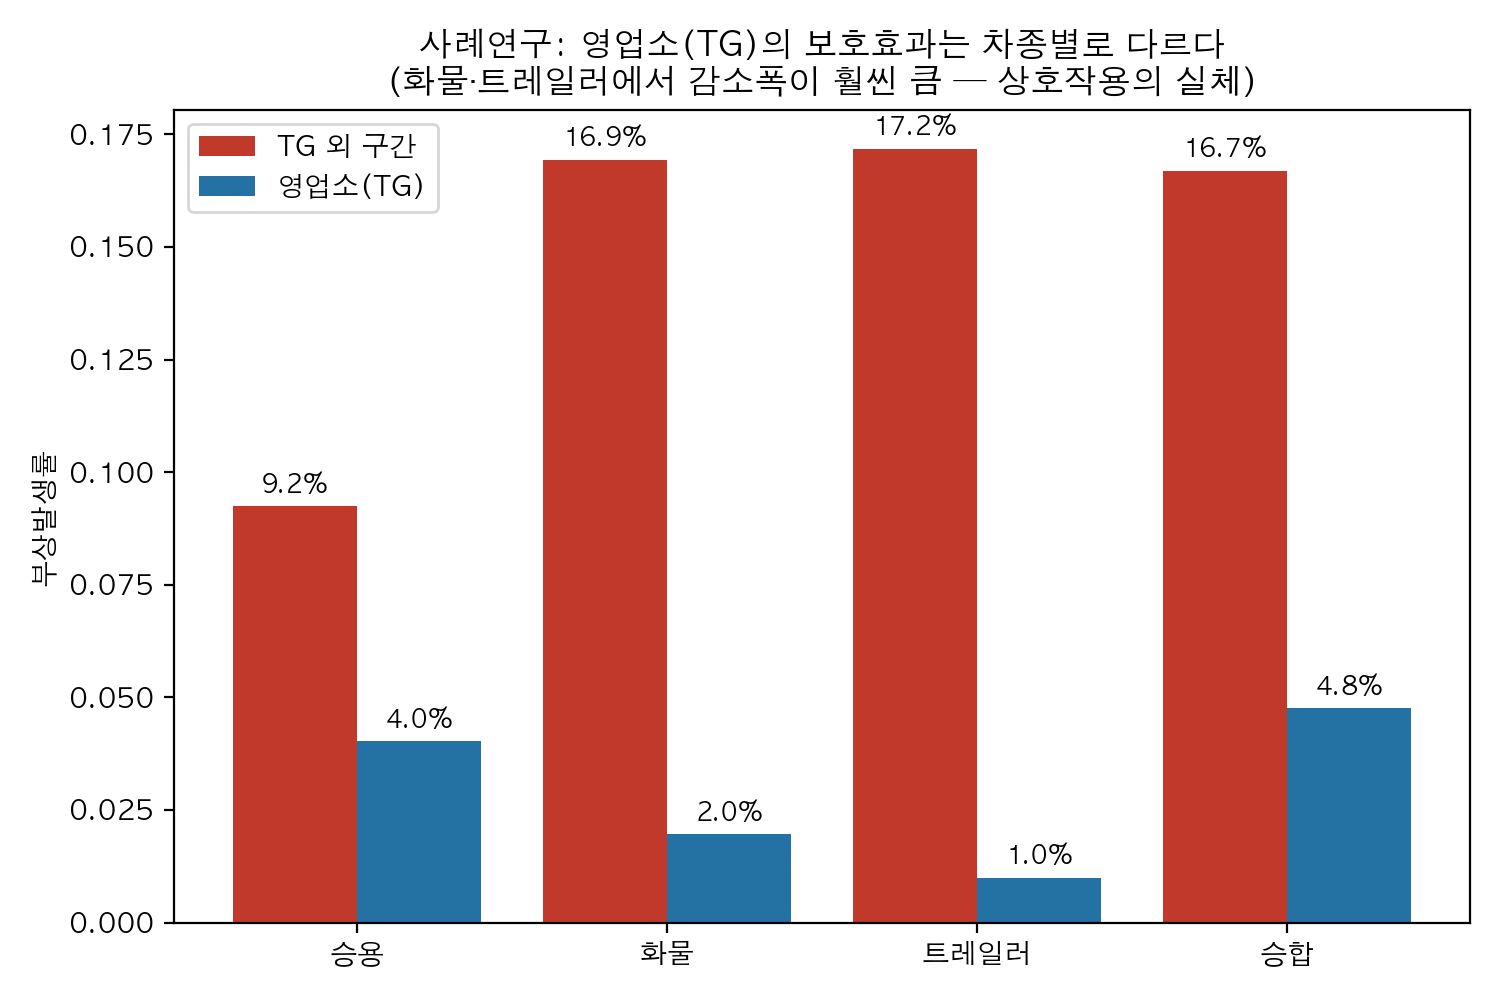
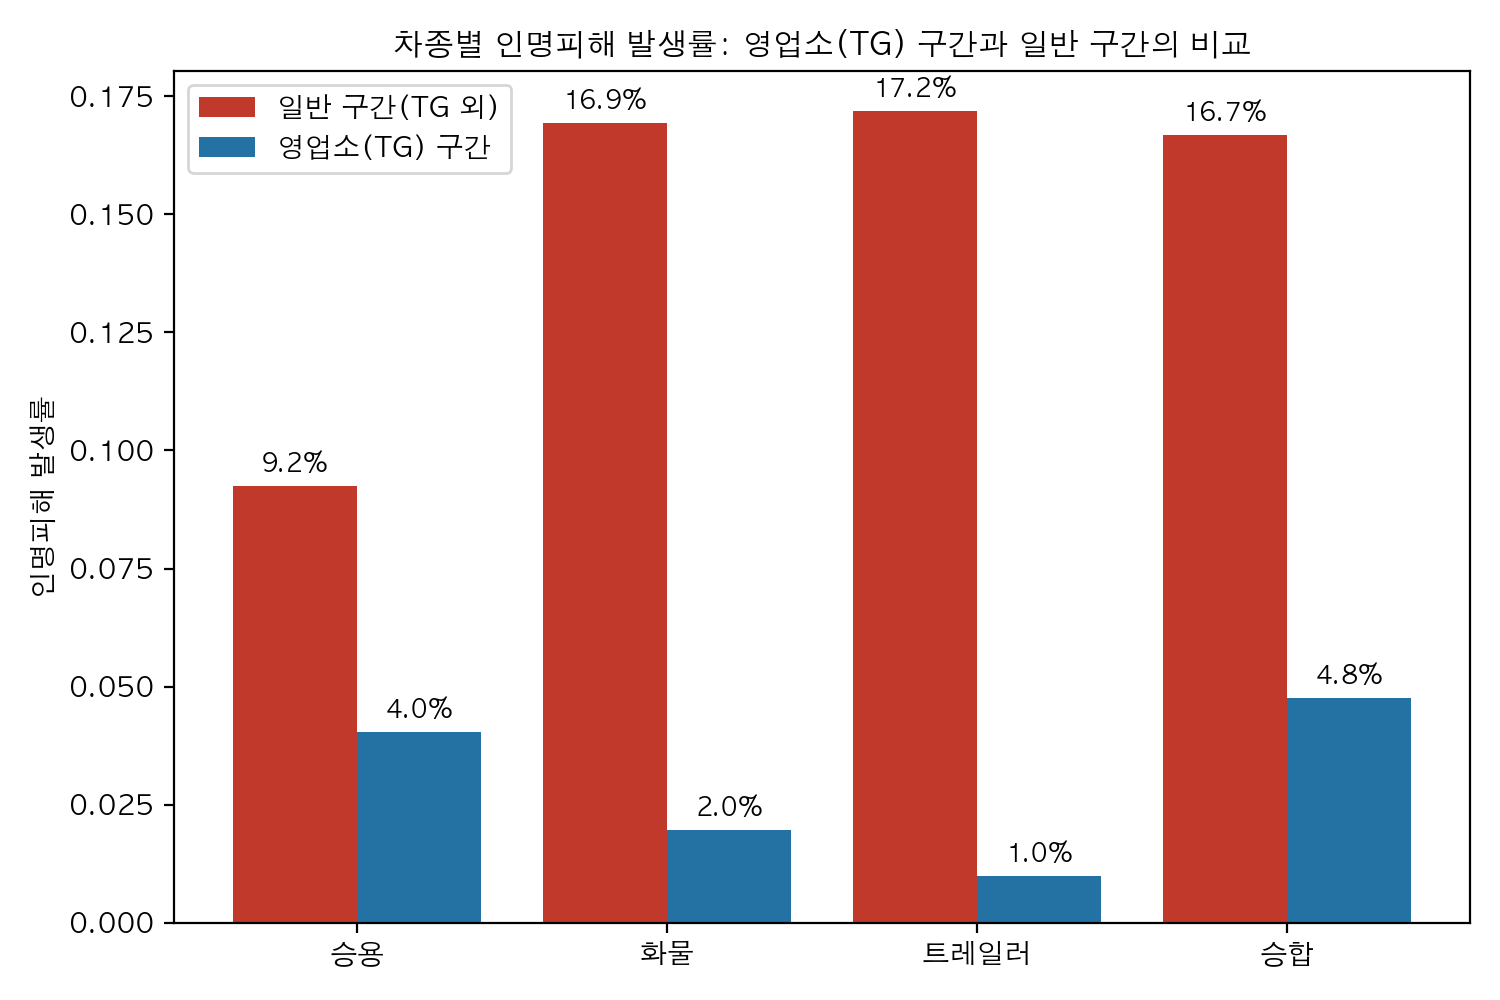
fig11 논문용 재생성(용어 통일·중립 제목) + TG 차종별 오즈 감소 수치 정밀화(59/75/90/95%)

diff --git a/docs/paper/build_docx.js b/docs/paper/build_docx.js
@@ -204,7 +204,7 @@ children.push(img("fig09_or_forest.png", 460, 433));
 children.push(caption("그림 3. 다변량 로지스틱 오즈비 forest plot (유의 상위 20)"));
 
 children.push(h2("5.3 상호작용: 탐색과 확인"));
-children.push(p("SHAP 상호작용 후보 24쌍 중 FDR q<0.05에서 확인된 주요 쌍은 표 4와 같다. 영업소(TG)×승용(+1.36)은 TG 보호효과가 승용차에서 유의하게 약화됨을 의미하며, 실증적으로 TG 진입 시 인명피해 오즈 감소는 승용 58%, 화물 90%, 트레일러 94%로 차종 간 이질성이 컸다(그림 4). 주시태만×본선(+0.44)은 본선 고속 구간에서 주시태만의 위험 증폭을, 승합×대형(+0.96)은 대형 승합 사고의 인명피해율(28.3%, 전체 평균의 2.6배)을 반영한다. 반면 SHAP 강도 상위였던 졸음×승용(p=0.304)과 본선×승용(p=0.167)은 주효과 통제 후 유의하지 않아, SHAP 상호작용 순위의 단독 보고가 갖는 허위 발견 위험을 자료로 확인하였다."));
+children.push(p("SHAP 상호작용 후보 24쌍 중 FDR q<0.05에서 확인된 주요 쌍은 표 4와 같다. 영업소(TG)×승용(+1.36)은 TG 보호효과가 승용차에서 유의하게 약화됨을 의미하며, 실증적으로 TG 진입 시 인명피해 오즈 감소는 승용 59%, 승합 75%, 화물 90%, 트레일러 95%로 차종 간 이질성이 컸다(그림 4). 주시태만×본선(+0.44)은 본선 고속 구간에서 주시태만의 위험 증폭을, 승합×대형(+0.96)은 대형 승합 사고의 인명피해율(28.3%, 전체 평균의 2.6배)을 반영한다. 반면 SHAP 강도 상위였던 졸음×승용(p=0.304)과 본선×승용(p=0.167)은 주효과 통제 후 유의하지 않아, SHAP 상호작용 순위의 단독 보고가 갖는 허위 발견 위험을 자료로 확인하였다."));
 children.push(mkTable(
   ["상호작용 쌍", "계수(log-odds)", "FDR q", "해석"],
   [

diff --git a/src/05_interaction_deep.py b/src/05_interaction_deep.py
@@ -219,16 +219,18 @@ def main():
     r_no = [df.loc[~tg & (df["원인차차종"] == v), "injury"].mean() for v in vehs]
     xp = np.arange(len(vehs))
     fig, ax = plt.subplots(figsize=(7.5, 5))
-    b1 = ax.bar(xp - 0.2, r_no, width=0.4, label="TG 외 구간", color="#C0392B")
-    b2 = ax.bar(xp + 0.2, r_tg, width=0.4, label="영업소(TG)", color="#2471A3")
+    b1 = ax.bar(xp - 0.2, r_no, width=0.4, label="일반 구간(TG 외)",
+                color="#C0392B")
+    b2 = ax.bar(xp + 0.2, r_tg, width=0.4, label="영업소(TG) 구간",
+                color="#2471A3")
     for b in list(b1) + list(b2):
         ax.text(b.get_x() + b.get_width() / 2, b.get_height() + 0.003,
                 f"{b.get_height():.1%}", ha="center", fontsize=9)
     ax.set_xticks(xp)
     ax.set_xticklabels(vehs)
-    ax.set_ylabel("부상발생률")
-    ax.set_title("사례연구: 영업소(TG)의 보호효과는 차종별로 다르다\n"
-                 "(화물·트레일러에서 감소폭이 훨씬 큼 — 상호작용의 실체)")
+    ax.set_ylabel("인명피해 발생률")
+    ax.set_title("차종별 인명피해 발생률: 영업소(TG) 구간과 일반 구간의 비교",
+                 fontsize=11)
     ax.legend()
     fig.tight_layout()
     fig.savefig(os.path.join(OUT_FIG, "fig11_tg_vehicle_casestudy.png"),

diff --git a/docs/analysis_report.md b/docs/analysis_report.md
@@ -225,11 +225,12 @@ OR(기준범주 대비)의 비교 기준 차이에서 발생하는 약한 효과
 
 ### 7-3. 사례연구: TG 보호효과의 차종별 이질성 (`fig11_tg_vehicle_casestudy.png`)
 
-| 차종 | TG 외 부상률 | TG 부상률 | 감소폭 |
+| 차종 | TG 외 인명피해율 | TG 인명피해율 | 감소폭 |
 |---|---|---|---|
-| 승용 | 9.2% | 4.0% | 오즈 58% ↓ |
+| 승용 | 9.2% | 4.0% | 오즈 59% ↓ |
+| 승합 | 16.7% | 4.8% | 오즈 75% ↓ |
 | 화물 | 16.9% | 2.0% | 오즈 90% ↓ |
-| 트레일러 | 17.2% | 1.0% | 오즈 94% ↓ |
+| 트레일러 | 17.2% | 1.0% | 오즈 95% ↓ |
 
 SHAP 랭킹 A에서 'TG × 승용'이 1위인 것은 승용의 등장 빈도 때문이며, **보호효과
 자체는 화물·트레일러에서 훨씬 강하다**. 상호작용 계수 +1.36은 "승용은 TG의

diff --git a/docs/paper/01_evidence_base.md b/docs/paper/01_evidence_base.md
@@ -107,8 +107,9 @@ FDR q<0.05 (조정 로지스틱 상호작용항, 주효과 14개 통제):
 검정 미통과(보고 시 탐색적으로 강등): 졸음×승용 p=0.304, 본선×승용 p=0.167,
 도로환경정상×습기 p=0.098
 
-TG 보호효과 이질성(실증): 승용 9.2%→4.0%(오즈 58%↓), 화물 16.9%→2.0%(90%↓),
-트레일러 17.2%→1.0%(94%↓)
+TG 보호효과 이질성(실증, 원자료 오즈비 기준): 승용 9.2%→4.0%(오즈 59%↓, OR 0.412),
+승합 16.7%→4.8%(75%↓, OR 0.249), 화물 16.9%→2.0%(90%↓, OR 0.098),
+트레일러 17.2%→1.0%(95%↓, OR 0.048)
 
 ## 7. 기존 분석 대비 교정 사항 (고찰용)
 